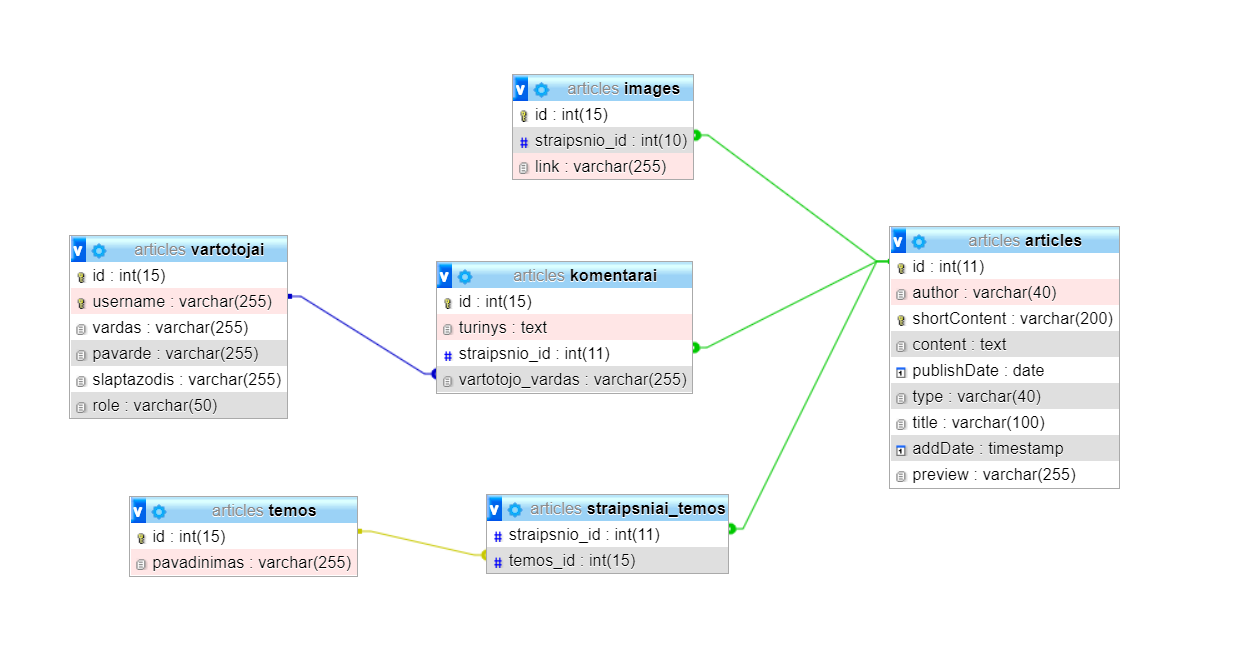
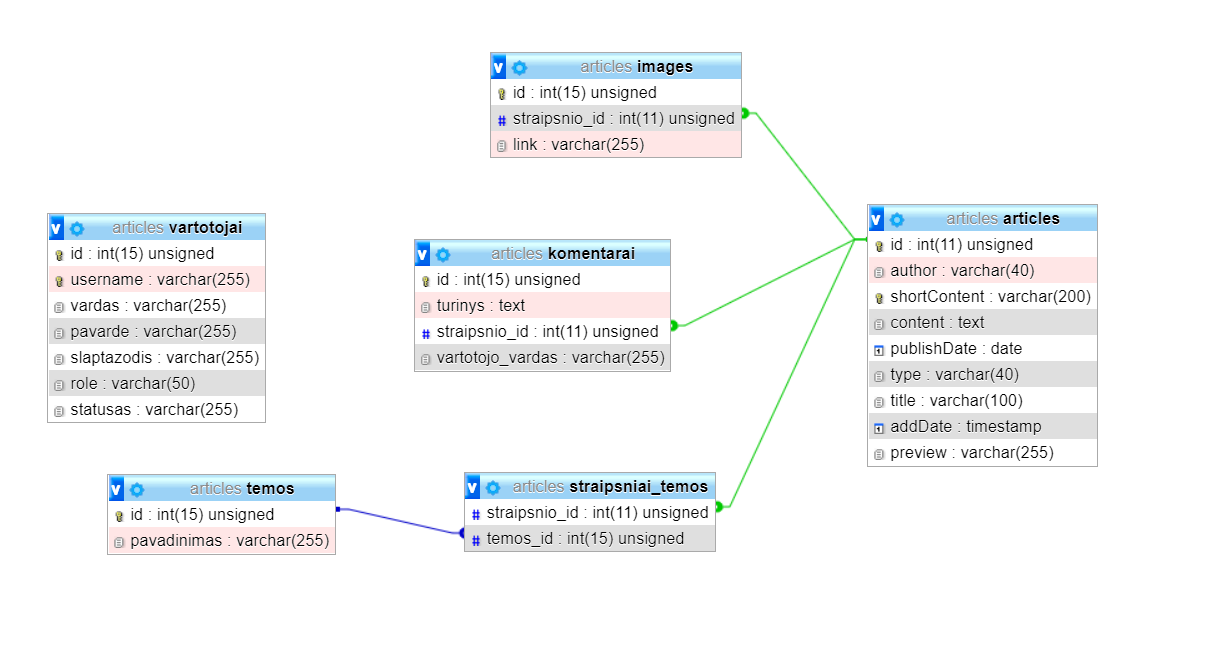
Block unblock user. New sql file and db schema

diff --git a/OOP_Polimorfizmas/views/user_comments.php b/OOP_Polimorfizmas/views/user_comments.php
@@ -13,16 +13,20 @@ require '../controllers/control_panel/get_user_comments.php';
 
 <body style="text-align: center;">
     <?php
-    if(mysqli_num_rows($records) == 0) {
+    if (mysqli_num_rows($records) == 0) {
         header('location: ../views/control_panel.php');
         exit();
     }
-
+    ?>
+    <div style="text-align: left;">
+        <a href="control_panel.php">Get back</a>
+    </div>
+    <?php
     while ($record = $records->fetch_array(MYSQLI_ASSOC)) {
-        echo "<p><b>Komentaro id:</b> " . $record['id']. "</p>";
+        echo "<p><b>Komentaro id:</b> " . $record['id'] . "</p>";
         echo "<p>Turinys: " . $record['turinys'] . "</p>";
         echo "<p>Vartotojas: " . $record['vartotojo_vardas'] . "</p>";
-        echo "<p><a href='../controllers/control_panel/delete_user_comments.php?id=" . $record['id']. "'>Ištrinti komentarą</a></p><br>";
+        echo "<p><a href='../controllers/control_panel/delete_user_comments.php?id=" . $record['id'] . "'>Ištrinti komentarą</a></p><br>";
     }
     ?>
 </body>

diff --git a/OOP_Polimorfizmas/models/vartotojai.php b/OOP_Polimorfizmas/models/vartotojai.php
@@ -29,7 +29,13 @@ abstract class Vartotojas {
         echo "</div>";
         echo "<div>";
         echo "<h4>Galimi veiksmai:</h4>";
-        echo "<p><a href='../controllers/control_panel/block_user.php?id=$this->id'>Blokuoti vartotoją</a></p>";
+
+        if($this->statusas == "Uzblokuotas") {
+            echo "<p><a href='../controllers/control_panel/block_user.php?id=$this->id&unblock=aktyvus'>Atblokuoti vartotoją</a></p>";
+        } else {
+            echo "<p><a href='../controllers/control_panel/block_user.php?id=$this->id'>Blokuoti vartotoją</a></p>";
+        }
+        
         echo "<p><a href='../controllers/control_panel/delete_only_user.php?id=$this->id'>Ištrinti tik vartotoją</a></p>";
         echo "<p><a href='user_comments.php?id=$this->id'>Vartotojo komentarai</a></p>";
         if($this->role == 'Autorius') {

diff --git a/OOP_Polimorfizmas/views/user_articles.php b/OOP_Polimorfizmas/views/user_articles.php
@@ -14,11 +14,15 @@ require '../controllers/control_panel/get_user_articles.php';
 
 <body style="text-align: center;">
     <?php
-    if(mysqli_num_rows($records) == 0) {
+    if (mysqli_num_rows($records) == 0) {
         header('location: ../views/control_panel.php');
         exit();
     }
-
+    ?>
+    <div style="text-align: left;">
+        <a href="control_panel.php">Get back</a>
+    </div>
+    <?php
     foreach ($articles as $article) {
         $article->printArticle(true, $_GET['id']);
     }

diff --git a/OOP_Polimorfizmas/controllers/control_panel/block_user.php b/OOP_Polimorfizmas/controllers/control_panel/block_user.php
@@ -3,7 +3,12 @@
 require "../db_connection.php";
 require "../../models/vartotojai.php";
 
-$sql = "UPDATE vartotojai SET statusas='Uzblokuotas' WHERE id=".$_GET['id'];
+$statusValue = "Uzblokuotas";
+if(isset($_GET['unblock']) && $_GET['unblock'] == "aktyvus") {
+    $statusValue = ucfirst($_GET['unblock']);
+}
+
+$sql = "UPDATE vartotojai SET statusas='$statusValue' WHERE id=".$_GET['id'];
 
 $records = mysqli_query($link, $sql);
 
